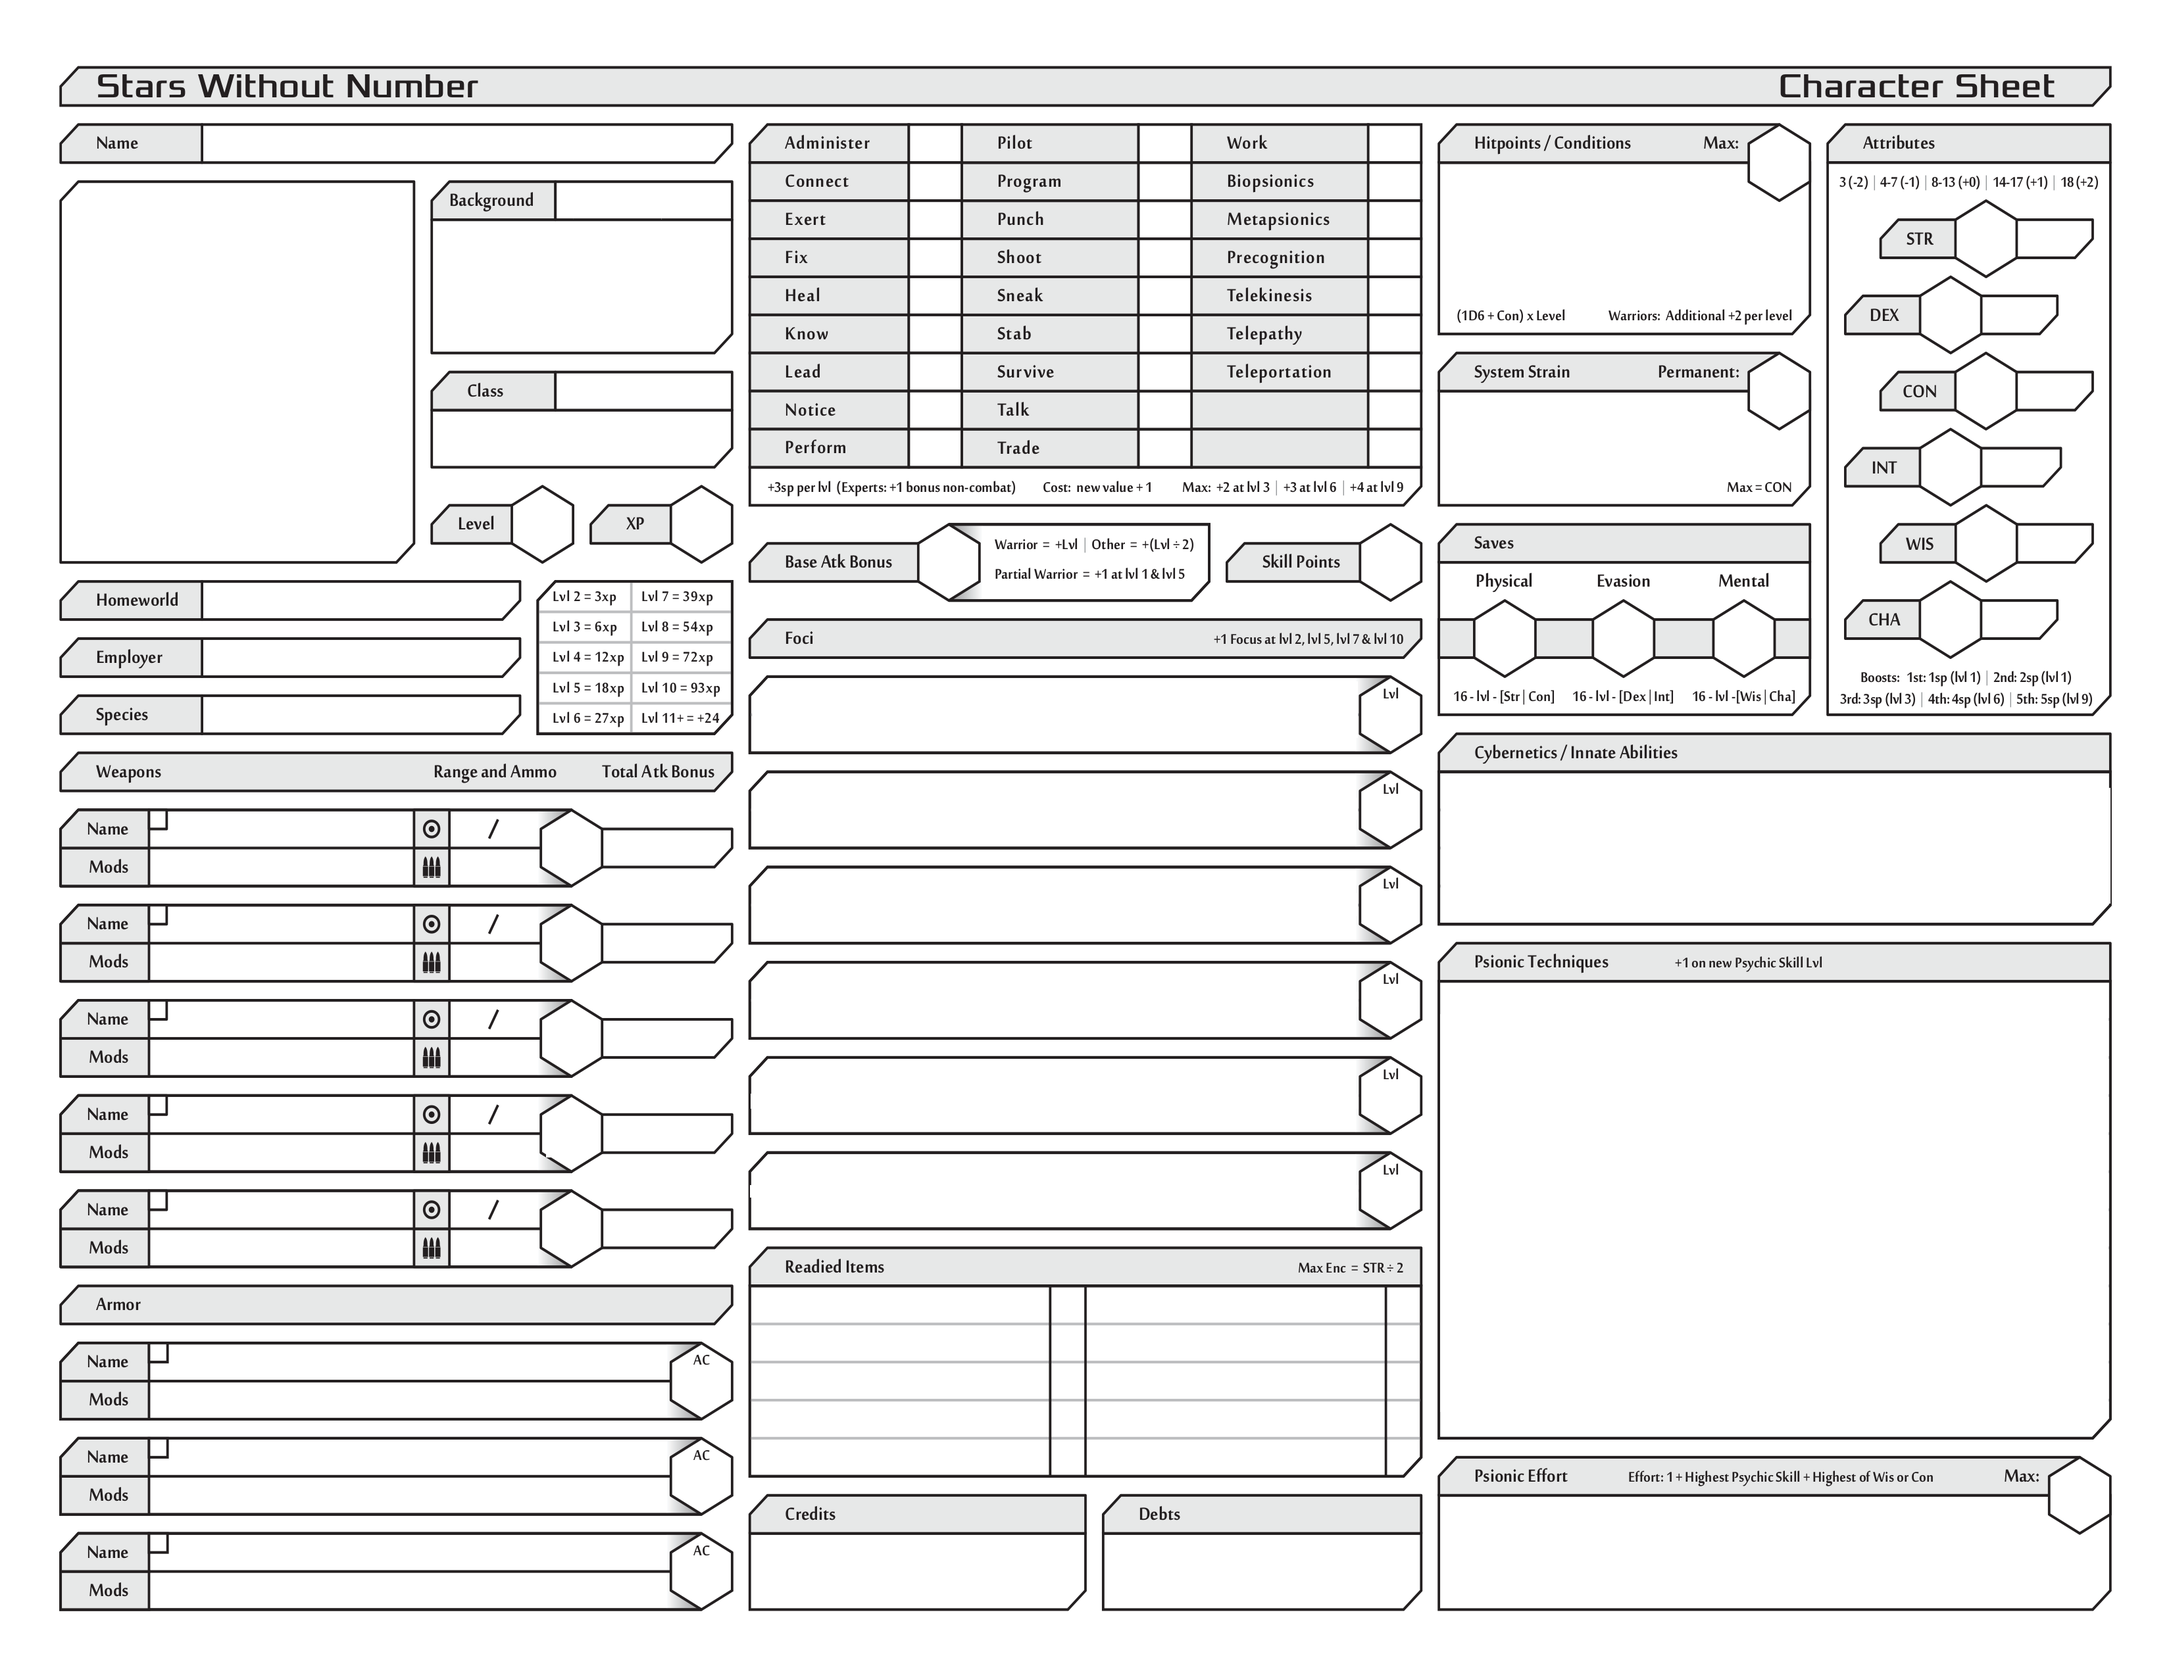
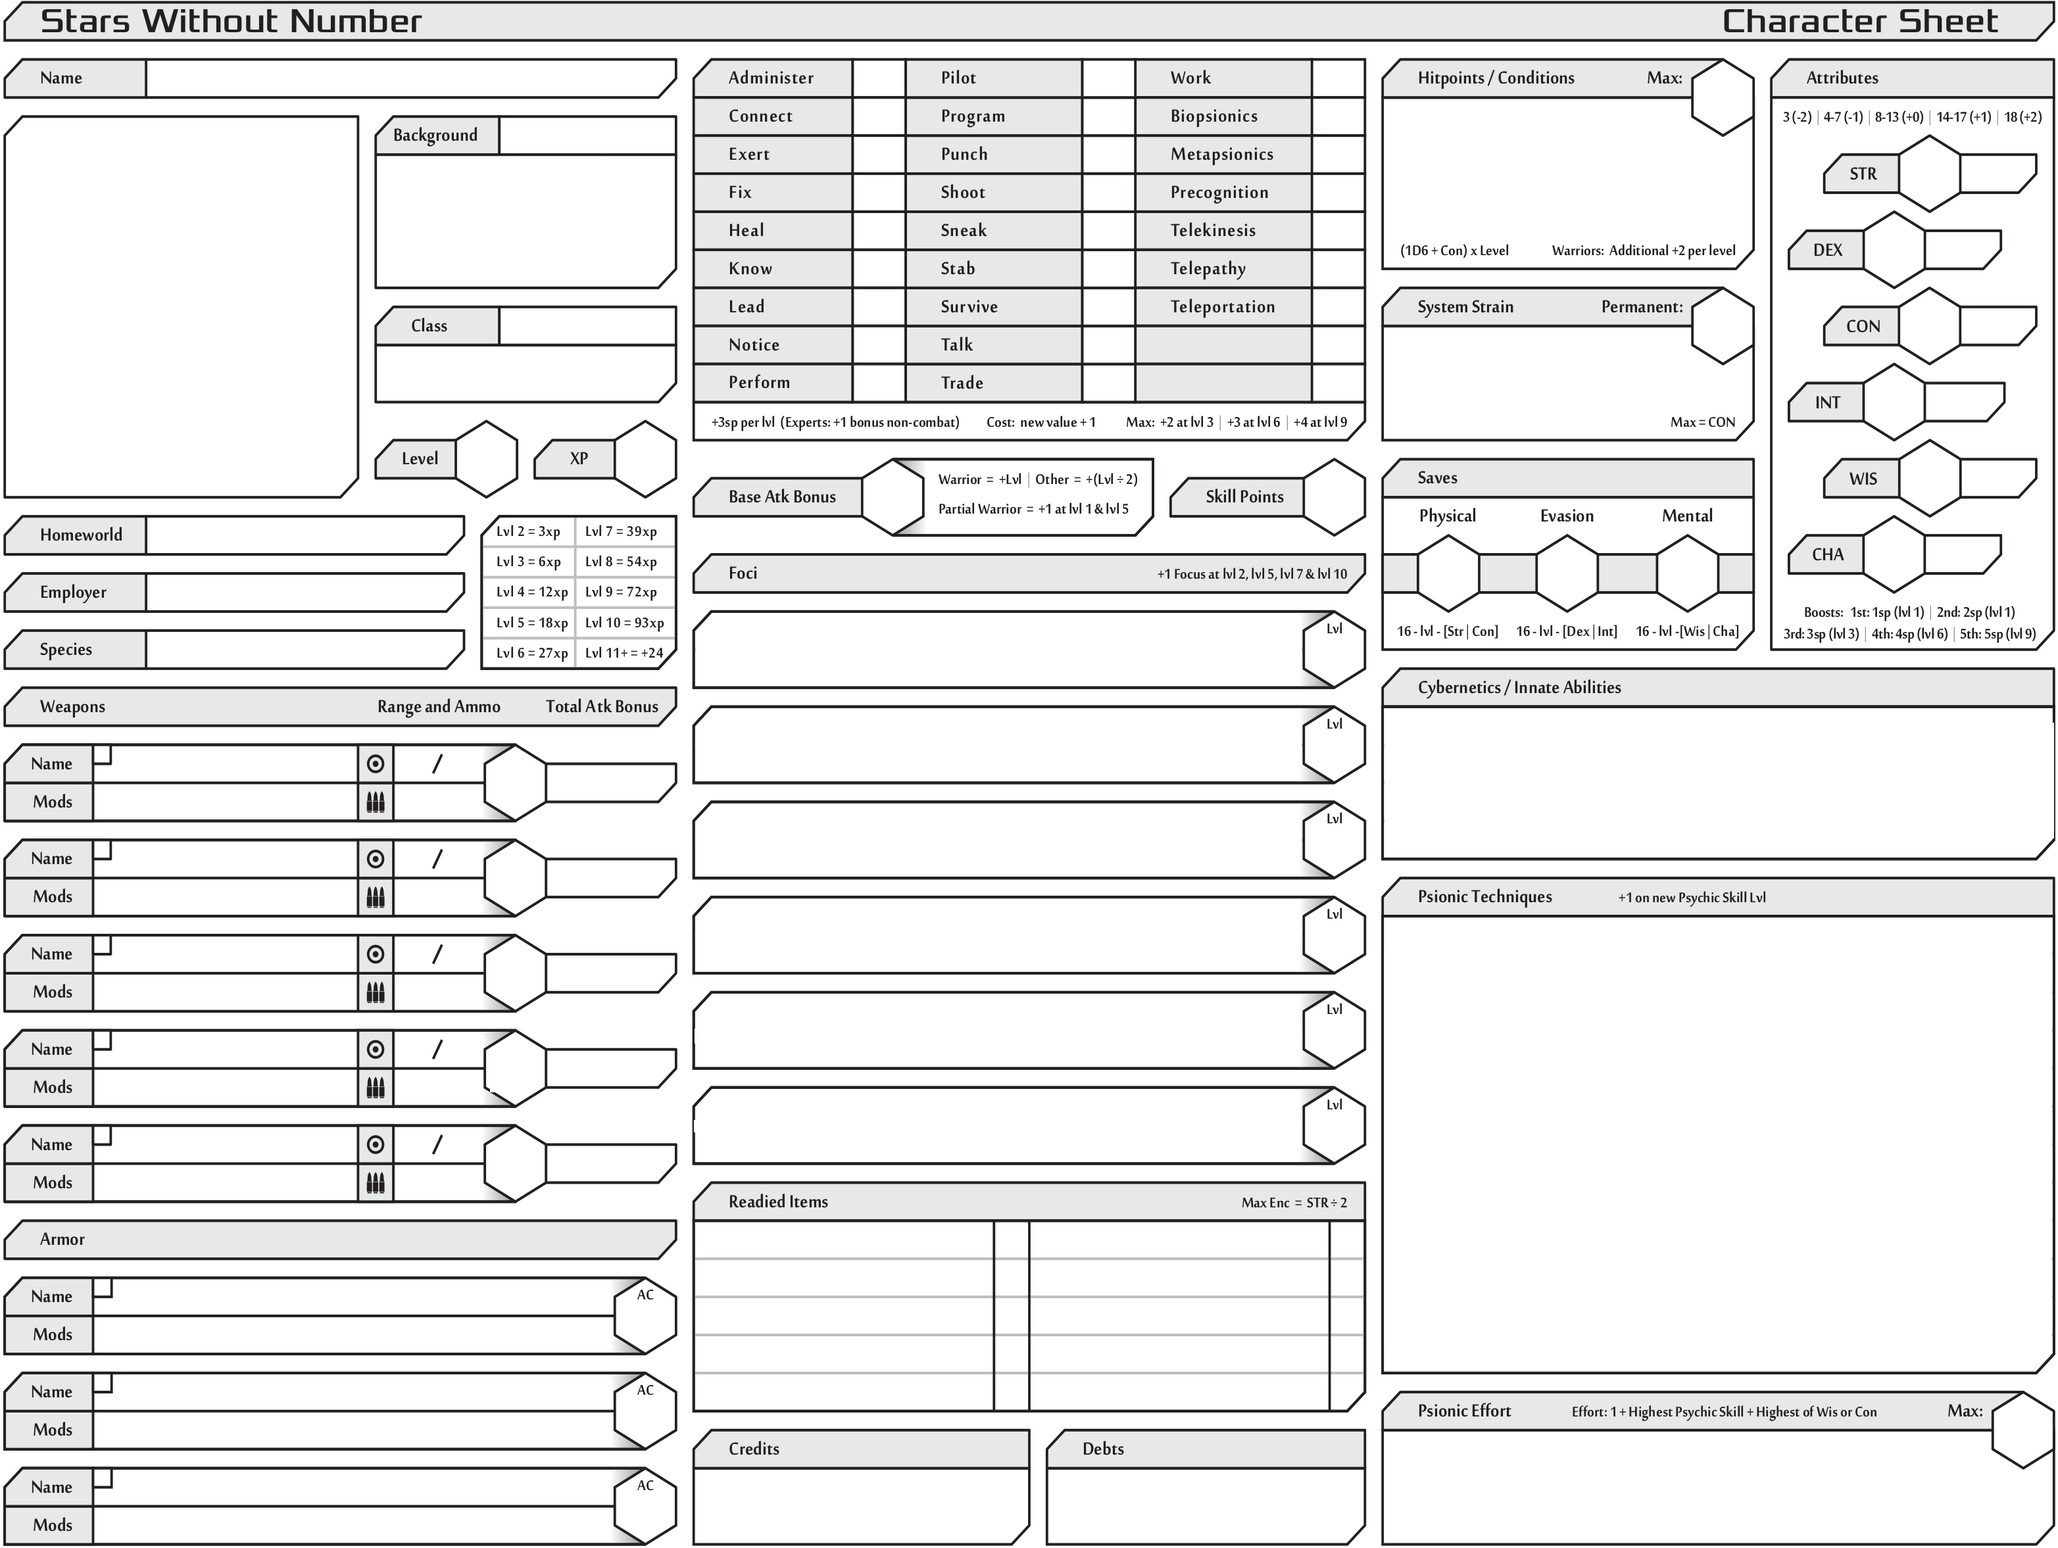
Cropped character sheet pngs

Changed region(s): [[0.0, 0.0, 1.0, 1.0]]

diff --git a/js/charactersheet.js b/js/charactersheet.js
@@ -1726,6 +1726,8 @@ function displayClass() {
 	class_hp_bonus = 0;
 	elemClassBonus.value = combineHPBonuses(class_hp_bonus,foci_hp_bonus);
 	elemAttackBonus.innerHTML = "+0";
+
+	$('#tabs').tabs('option', 'active',0) ;
     }
     else{
 	var elemClassName = document.createElement("h2")
@@ -1784,6 +1786,9 @@ function displayClass() {
 	    class_hp_bonus = 0;
 	    elemClassBonus.value = combineHPBonuses(class_hp_bonus,foci_hp_bonus);
 	    elemAttackBonus.innerHTML = "+0";
+	    
+            $('#tabs').tabs('option', 'active',0);
+	    
 	}
 	else if(Class=="warrior"){
 	    class_skills=[];
@@ -1792,6 +1797,8 @@ function displayClass() {
 	    class_hp_bonus = 2;
 	    elemClassBonus.value = combineHPBonuses(class_hp_bonus,foci_hp_bonus);
 	    elemAttackBonus.innerHTML = "+1";
+
+	    if($('#tabs').tabs('option', 'active')==2) $('#tabs').tabs('option', 'active',1) ;
 	}
 	else if(Class=="expert"){
 	    class_skills=[];
@@ -1800,6 +1807,8 @@ function displayClass() {
 	    class_hp_bonus = 0;
 	    elemClassBonus.value = combineHPBonuses(class_hp_bonus,foci_hp_bonus);
 	    elemAttackBonus.innerHTML = "+0";
+
+	    if($('#tabs').tabs('option', 'active')==1) $('#tabs').tabs('option', 'active',2) ;
 	}
 	else if(Class=="war_exp"){
 	    class_skills=[];
@@ -1816,6 +1825,8 @@ function displayClass() {
 	    class_hp_bonus = 2;
 	    elemClassBonus.value = combineHPBonuses(class_hp_bonus,foci_hp_bonus);
 	    elemAttackBonus.innerHTML = "+1";
+
+	    if($('#tabs').tabs('option', 'active')==2) $('#tabs').tabs('option', 'active',1) ;
 	}
 	else if(Class=="exp_psy"){
 	    class_skills=["any psychic"];
@@ -1824,6 +1835,8 @@ function displayClass() {
 	    class_hp_bonus = 0;
 	    elemClassBonus.value = combineHPBonuses(class_hp_bonus,foci_hp_bonus);
 	    elemAttackBonus.innerHTML = "+0";
+
+	    if($('#tabs').tabs('option', 'active')==1) $('#tabs').tabs('option', 'active',2) ;
 	}
     }
     totalHP();

diff --git a/index.html b/index.html
@@ -834,9 +834,6 @@
 	  <label for="stabshoot_shoot">Shoot</label>
 	  <input type="radio" name="stabshoot" value="shoot" id="stabshoot_shoot">
 	</div>
-	<div  id="character_sheet" style="display:none;position:relative;width:800px"> 
-	  <img src="https://noah-sennett.github.io/swn-character-creator/assets/StarsWithoutNumberRevised-Character_Sheet-Form.png" alt="Character Sheet" style="width:100%;" id="character_sheet_img">
-	</div>
 	<button class="fixedButton">Print Character Sheet</button>
         <!-- <script> -->
 	<!--   fillOutSheet(); -->
@@ -845,8 +842,12 @@
       </div>
       <div class="sidebar">
       </div>
+
     </div>
 
+      	<div  id="character_sheet" style="display:none;position:relative;width:1000px"> 
+	  <img src="https://noah-sennett.github.io/swn-character-creator/assets/StarsWithoutNumberRevised-Character_Sheet-Form.png" alt="Character Sheet" style="width:100%;" id="character_sheet_img">
+	</div>
 
     <!-- <div class="footer"> -->
     <!-- </div> -->
